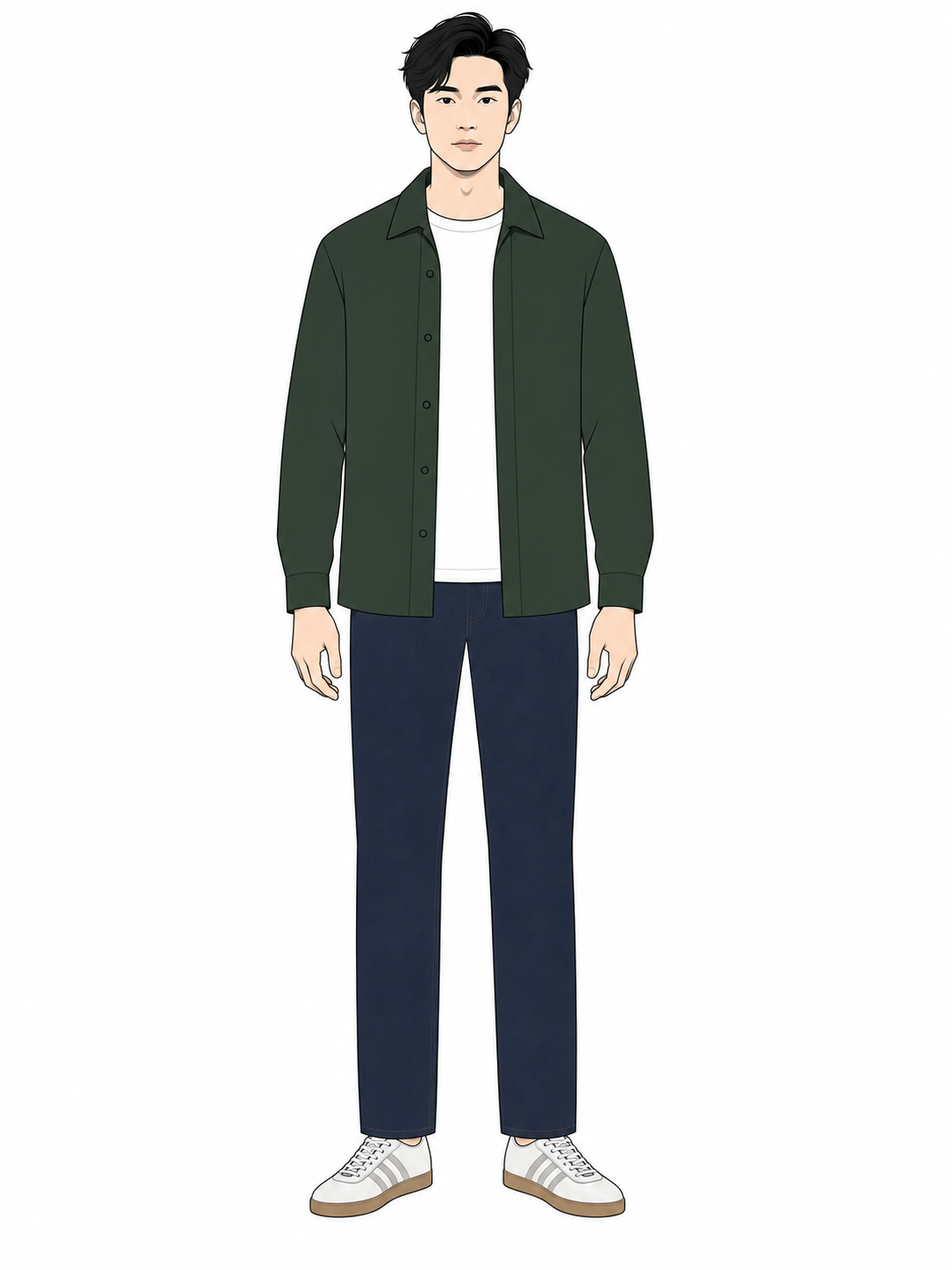
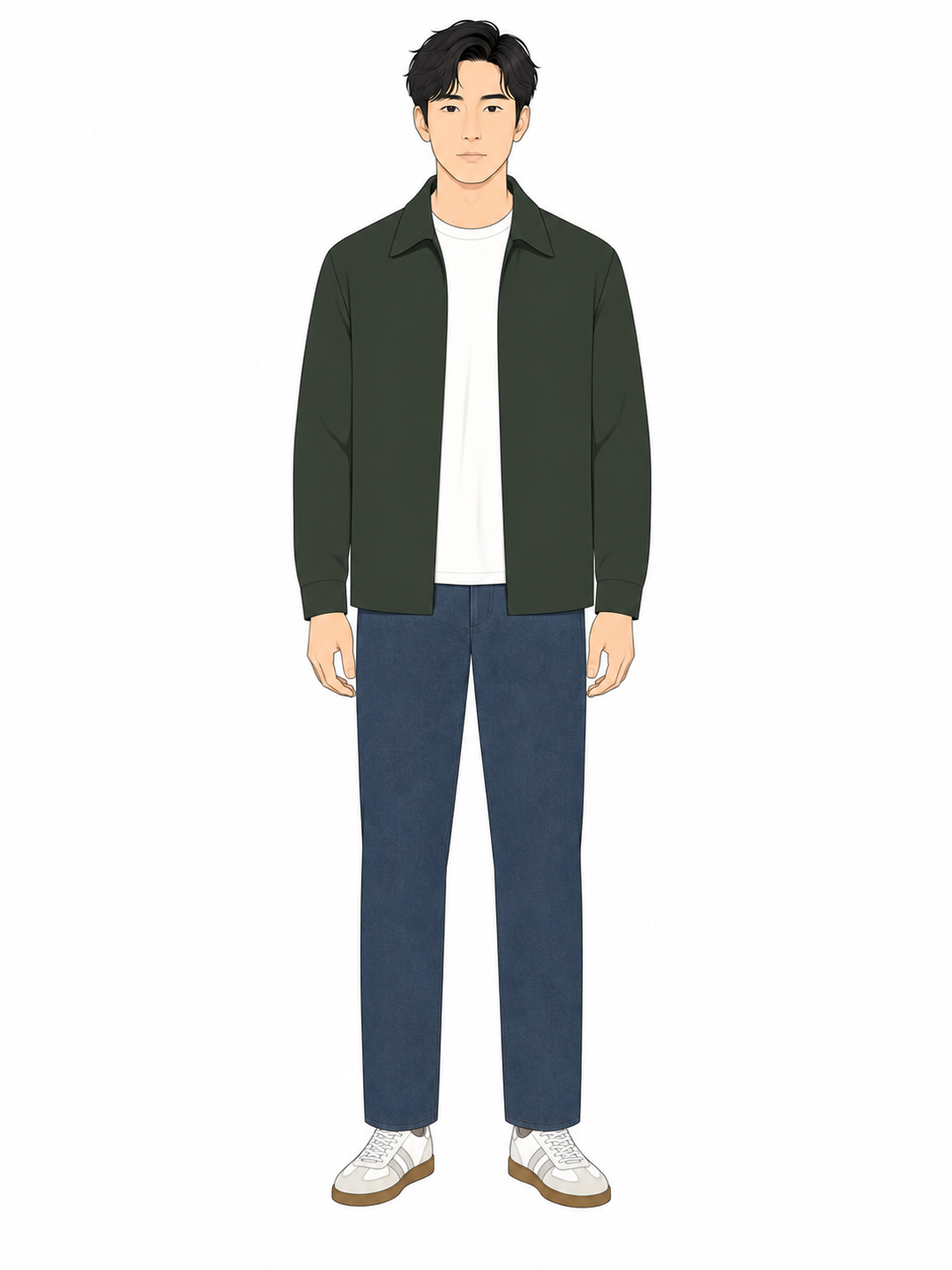
Regenerate five Style illustrations with corrected skin tone and colours
Replaces school-day, parent-evening, weekend, evening-out and hair
with new renders matching the current data: navy in place of
charcoal, camel for Parent evening's coat, light-to-medium skin
instead of the unspecified default, and realistic leg length instead
of fashion-croquis elongation.

Colour, carefully and Blazer and sneakers are not among the new
renders — none of the generated images showed the emerald knit or the
tie either look depends on, so both go back to the drawn placeholder
rather than ship a wrong match.

diff --git a/style/index.html b/style/index.html
@@ -312,7 +312,7 @@
 const S = {"philipp": {"direction": {"register": "Modern preppy, elevated — mature, not collegiate", "thesis": "The wardrobe he was already buying toward (Ralph Lauren, Suitsupply, Charles Tyrwhitt) stops being an exception and becomes the actual plan: tailored coats and knitwear over a collared shirt, chinos with a clean line, camel and khaki back in alongside the cool core. Preppy's usual signals — bright polos, popped collars, varsity branding — are exactly the collegiate register this avoids; the 2026 version of this look is described everywhere as sophisticated and mature rather than campus, and that is the half being kept.", "builtFrom": "Three facts about him, not a look: colouring that is Dark Winter and high-contrast, a 25 cm waist-to-hip drop, and a face that reads a decade younger than the passport. Those decide the trouser cut and how far the styling may mature regardless of register; the palette itself is cool by test, with camel and khaki confirmed back in on his own report on 2026-09-06.", "onTheOriginalFraming": "Written first in Korean-actor vocabulary, then generalised — the palette, cut and hair depend on his own measurements and colouring, not the label. The register itself changed again on 2026-09-06, quiet minimalism to modern preppy; the old references matched the old register, not this one.", "ageRead": "Reads early-to-mid 30s in photographs, not 43: full hairline, even skin tone, no deep static lines. The clothes are currently the oldest thing in the picture. That widens the range rather than narrowing it — the limiter is context (school, parent evenings, Germany), not the birth year, and over-mature styling would hand back years the face has not lost.", "notThis": [{"register": "Costume", "why": "Sheer fabric, embellishment, stage pieces — the idol register."}, {"register": "Collegiate preppy", "why": "Bright polos, popped collars, varsity, baseball caps — the campus version this register avoids."}], "referencesNote": "Byeon Woo Seok is sourced for the garment specifics; Beckham and Reynolds for silhouette and attitude only. Colour is already settled from his own skin and the metal test, not from a reference photo.", "references": [{"name": "Byeon Woo Seok", "why": "Actor, not idol; Prada ambassador; documented in cable-knit-over-collared-shirt layering — the core preppy combination, executed adult rather than campus. Age and build read close to his own."}, {"name": "David Beckham", "why": "Named directly in 2026 coverage of the trend: 'blending traditional tailoring with casual, sporty elements'. Mature, not collegiate, and the sportswear-into-tailoring move matches a man who trains regularly."}, {"name": "Ryan Reynolds", "why": "Named in the same coverage: 'clean, polished ensembles with a touch of whimsy'. The whimsy is the one thing to leave behind — the register wanted here is quieter than his press-tour persona — but the clean, tailored-casual base is exactly it."}], "readOfCurrentPhotos": "Four photographs, four sets of functional clothing: sport tee, polo, sport tee, printed sweatshirt. Not a taste problem — a control problem. Nothing in the set is a chosen silhouette. What already works: the gum-sole Sambas, and navy, which appears in three of four and flatters in all three. What works against him: the printed sweatshirt (busy, boxy, adds volume exactly where the training is removing it) and visible athletic branding outside the gym."}, "hair": {"priority": "The single biggest lever — roughly 60% of the effect is decided before any garment is chosen. Hair either rounds the face or lengthens it, and nothing worn below the collar can undo that.", "caption": "Taper cut — textured length on top, tapered sides (not shaved), matte not glossy. Near-black stays.", "imageStyle": {"prefix": "Close-up portrait illustration in a graphic novel style — flat matte ink like a European or American adult graphic novel, not anime or webtoon. Bold clean black ink outlines of even weight, no cross-hatching, no soft cel-shading, no gradients, no glossy highlights on the hair or skin. Head and shoulders only, three-quarter angle. Plain white background, no scenery, no props. No text, no labels, no captions, no logos.", "figure": "Early-30s East Asian man, light-to-medium skin tone — not pale, not fair-skinned. Mature and quiet, calm expression, no smile. Near-black hair in a taper cut: textured length and natural volume on top, falling softly to one side with lift at the crown, sides tapered short and blended into the top — never shaved or clipped to skin — matte and textured throughout, never glossy or wet-look. Wearing a plain navy crew-neck knit, no visible branding.", "suffix": "Portrait orientation, roughly 3:4, head and shoulders filling most of the frame with a small margin."}, "current": "Already close to the target most days, per his own photos — taper sides, natural volume on top, a soft side part or a looser textured sweep depending on the day. The gap only shows right after a cut that goes too short and too flat: no taper, no crown lift, which rounds the face and takes height away until it grows back out.", "cut": "Taper, not two-block/undercut. A two-block's sharp contrast between shaved sides and long top needs a trim every 2–3 weeks to hold its line — Asian hair regrows fast enough that skin-short sides read 'grown out' within two weeks. A taper has no hard line to lose, so it holds its shape 6–8 weeks between cuts and is closer to what he already wears day to day. Ask the barber for: taper on the sides, not a skin-short or clipper-guard-zero undercut, with 4–6 cm of textured length on top.", "shape": "Side sweep with lift at the crown — the classic preppy part, and it does more for his face shape than the alternative. Not a middle part: that reads closer to K-drama/idol styling than to this register, and without a real perm it tends to sit flat over a normal hairline rather than lengthening it the way a side sweep does.", "color": "Leave it. Near-black is a Dark Winter's own colour and the high contrast against the skin is the asset. If it is ever touched, a cool dark brown — ash or espresso, never caramel or warm brown.", "product": "Matte clay, not gel — a pea-sized amount worked through towel-dried hair with fingers, lifting from underneath at the crown. Under a minute; the taper does the work, the product just holds it rather than restyling it daily.", "why": "Vertical lift lengthens the face and gives the jaw its line back; a taper keeps that lift without a two-block's upkeep cost, which is more than wanted for a routine redone every morning and a cut redone every few weeks. The colour advice here used to say the opposite — soften the black to a warm brown — and the undertone test overturned it. That recommendation was warm-season reasoning applied to cool skin, and it was the one thing in this file genuinely riding on the answer. The cut is unaffected: it comes from face shape and upkeep, not colouring."}, "palette": {"type": "Dark Winter — deep, high-contrast, cool", "confidence": "Settled for metal, not for every fabric. Depth and contrast were never in doubt. The gold-versus-silver test (2026-09-05) is the strongest-supported claim in here for metal specifically — reflective gold at the jaw is a definite no, silver reads clean — and that rule is not in question. What was overreached was extending it to every warm-toned fabric: on 2026-09-06 he reported his own camel coat and khaki both suit him, which a metal test cannot actually rule out. A polished gold ring returns raw, saturated warmth straight onto the skin; a matte wool coat is muted and sits further from the face, and depth/muting can outweigh hue in a way a mirror shows and a metal swatch cannot. So: metal is a closed question, cool only. Fabric neutrals are open beyond the deep core — camel and khaki are back in, on his word, and nothing else warm has been tested. Charcoal is a different kind of open question: it's cool, so the undertone test never argued against it, but he owns exactly one charcoal item and isn't sure it works. Navy carries the 'default cool neutral' job instead, until charcoal gets the same kind of real-world confirmation camel and khaki got — see `unconfirmed`.", "established": "Near-black hair, dark brown eyes, light-to-medium skin, high hair-to-skin contrast. Deep colours hold across every lighting seen so far — black and navy both sit at the face without draining it.", "resolved": "Cool for metal: silver at the face reads clean, gold pulls yellow into the skin. Dark Winter depth and contrast stand regardless. Fabric is less absolute than metal — see `warmNeutrals` below for the two colours his own mirror has already settled.", "rule": "Deep tones throughout, and let the contrast stand. Black is a real neutral here, mid tones are not. Navy and true white are the cool default; camel and khaki are allowed too, on his own report — see `warmNeutrals`. Charcoal stays unconfirmed — see `unconfirmed`.", "metal": "Silver, steel, white gold, gunmetal — not gold. Watch, belt buckle, glasses frames, any ring. Metal only; doesn't extend to camel or khaki fabric.", "core": [{"name": "Black", "hex": "#16181C"}, {"name": "Navy", "hex": "#1F2A44"}, {"name": "True white", "hex": "#FFFFFF"}, {"name": "Forest", "hex": "#2E4535"}, {"name": "Burgundy", "hex": "#6B2233"}], "accent": {"note": "Where colour is allowed in an otherwise dark wardrobe.", "colors": [{"name": "Emerald", "hex": "#0F5C4A"}, {"name": "Sapphire", "hex": "#1B3F7A"}, {"name": "Deep berry", "hex": "#7A1140"}, {"name": "Icy blue", "hex": "#BFD4E8"}]}, "warmNeutrals": {"note": "Confirmed on his own word, 2026-09-06 — not a metal-test result.", "colors": [{"name": "Camel", "hex": "#A8825A", "why": "His own coat."}, {"name": "Khaki", "hex": "#C2B49A", "why": "Confirmed same day."}]}, "unconfirmed": {"note": "Cool-toned, so never ruled out on undertone grounds — just never actually worn enough to say it works. Navy took over as the default cool neutral instead of waiting on it.", "colors": [{"name": "Charcoal", "hex": "#3A3F47", "why": "One charcoal suit, and he's not sure it suits him — 2026-09-08. The same unconfirmed status khaki had before 2026-09-06; it may well come back in, on the same terms — his own report, not a swatch test."}]}, "ruledOut": {"note": "Untested for fabric, not wrong on anyone — just wrong next to cool skin.", "colors": [{"name": "Cream", "hex": "#EFE7D8", "why": "True white does this cool."}, {"name": "Stone", "hex": "#C7BFAE", "why": "Untested, unlike khaki."}, {"name": "Chocolate", "hex": "#4A3728", "why": "Warm brown at the face."}, {"name": "Rust", "hex": "#9C4A2A", "why": "Autumn's signature."}, {"name": "Deep olive", "hex": "#4A503A", "why": "Forest does this cool."}]}, "avoid": [{"name": "Fuchsia", "hex": "#E4409B", "why": "Too light and too bright against this depth — this was never an undertone question"}, {"name": "Apple green", "hex": "#8DC63F", "why": "Same reason: brightness. Cool it further and it is still wrong."}, {"name": "Lemon yellow", "hex": "#F2E85C", "why": "Light and bright — disappears next to near-black hair"}, {"name": "Ice pink", "hex": "#F5D3DE", "why": "Pale and washed — the opposite of a Dark palette"}, {"name": "Mid grey", "hex": "#9AA0A8", "why": "Not wrong, just inert — mid tones flatten a high-contrast face. Go darker."}]}, "looks": {"note": "Added 2026-09-05 because the page could describe a wardrobe but not show one. Every colour here comes from `palette.core` or `palette.accent` — these are assemblies, not new decisions, and if the palette changes these have to change with it. Five is deliberate: enough to cover the week he actually has, few enough that each one is a real outfit rather than a combination generator.", "imageStyle": {"adaptedFrom": "Originally the Teaching Hub house style verbatim — 'black and white graphic novel illustration, bold clean ink lines, no grey gradients'. Moved further on 2026-09-06: 'graphic novel' as a phrase kept pulling image generators toward glossy webtoon/manhwa romance-comic rendering regardless of the negative instructions stacked against it — confirmed when a generated School day image came back with soft gradient shading and an invented chest pocket despite both being explicitly excluded. The prompt now anchors on 'fashion technical flat / croquis', a real, well-represented illustration genre that is inherently flat and unornamented, rather than fighting a genre (graphic novel) whose dominant training association is the opposite of what this page needs.", "deviation": "Colour is still the one deliberate addition on top of the reference genre: a fashion croquis is normally colourless, but on a wardrobe page the colour IS the content — an emerald knit under a navy overshirt is the whole point — so garments are filled flat in the palette hexes instead.", "correction": {"date": "2026-09-06", "problem": "The first two renders (school-day, parent-evening) came back reading as modern preppy / dark academia — glossy K-webtoon shading and doe-eyed rendering rather than the graphic-novel ink asked for, a flapped topstitched chest pocket, a button-down collar, and trousers with a visible break at the shoe. None of that was written into the prompt; the generator defaulted to the dominant house style for 'handsome young Asian man' illustrations, which is exactly that look. The palette and garments were correct — the rendering and a few unstated details were not.", "fix": "prefix and figure below now say explicitly what they used to leave to chance: matte flat ink, no glossy or anime/webtoon shading, no doe-eyed romance-comic rendering, matte textured hair rather than a glossy side part, no decorative top-stitching or flapped pockets, no crease-break at the shoe. The parent-evening shirt keeps its collar — a plain spread collar is exactly right under an open coat — but loses the button-down oxford collar (the version with buttons at the points), which is the specific detail that read Ivy. This is not a new direction — it is the one already written in `direction` and `hair`, enforced in the prompt instead of assumed.", "existingImages": "school-day.png and parent-evening.png predate this fix and were not regenerated — that is a real cost, not a rounding error, and worth redoing only if the drift bothers him enough to spend the effort again."}, "prefix": "A fashion technical flat sketch — a designer's croquis, the plain reference drawing used in clothing design to show a garment on a figure with no artistic rendering. Flat matte black ink outlines of even weight on plain solid colour fills, exactly like a Uniqlo or Muji style guide diagram, not a character illustration, not a graphic novel panel, not anime or webtoon art. No cross-hatching, no soft cel-shading, no grey gradients, no glossy highlights anywhere, on hair or skin or fabric. No fabric texture, no wrinkles, no rendering of any kind — every garment is a single flat shape. Every garment is plain and unornamented: no pockets, no flaps, no stitching detail, no seams drawn in, no visible branding. Plain white background, no scenery, no props, no shadow on the ground. No text, no labels, no captions, no logos.", "figure": "The same man in all five images so they read as one series: early-30s East Asian man, slim athletic build, light-to-medium skin tone — not pale, not fair-skinned. Mature and quiet rather than boyish or doe-eyed, calm neutral expression with no smile. Near-black hair with length and volume on top and tapered sides, matte and textured with natural separation — not glossy, not a slicked or glassy side part. Standing straight and facing the viewer, arms relaxed at his sides, full body visible from head to shoes, in realistic body proportions — not the elongated 9-head fashion-croquis convention of extra-long legs; keep the leg length true to life relative to the torso. Trousers fall in one continuous straight line with no crease and no break at the shoe.", "suffix": "Portrait orientation, roughly 3:4. The whole figure must fit inside the frame with clear margin above the head and below the shoes.", "howToUse": "Concatenate prefix + figure + the look's own `imagePrompt` + suffix, generate, and drop the file into hub/style/img/ named after the occasion slug — school-day.png, parent-evening.png, weekend.png, evening-out.png, colour-carefully.png. The build picks it up on the next run and replaces the drawn placeholder; .png, .jpg and .webp are all accepted.", "background": "A transparent background is better than white if the generator can do it, because the page has a dark theme as well as a light one. If it cannot, white is fine — the build puts the image on its own white plate so it looks deliberate in both themes rather than like a bug."}, "items": [{"occasion": "School day", "when": "The default, and the one worth getting right — it is most of the week", "note": "Confirmed 2026-09-06: a real collar for work, not a crew neck — the knit is what he wears off-duty with his wife, not what belongs at school. On cold days the merino crew goes back in, but layered over the shirt, under the overshirt — the collar still shows, so the rule holds either way. Tonal from collar to shoe, one shoulder seam on the outside. Nothing here needs ironing on a Tuesday morning.", "reference": {"label": "Real chelsea-boot outfits, this register", "url": "https://lookastic.com/men/black-chelsea-boots/looks"}, "imagePrompt": "He wears a plain open navy overshirt (#1F2A44) with a defined shoulder seam and no chest pocket, over a white cotton shirt (#FFFFFF) with a plain point collar visible at the neck, buttoned without a tie. Straight-leg navy trousers (#1F2A44) that fall clear of the hip in one continuous line with no crease and no break at the ankle, and black leather chelsea boots (#16181C). The overshirt hangs open and straight, forming one unbroken vertical line down each side.", "layers": [{"part": "Outerwear", "item": "Navy overshirt", "hex": "#1F2A44"}, {"part": "Top", "item": "White collared shirt", "hex": "#FFFFFF"}, {"part": "Bottom", "item": "Navy straight trousers", "hex": "#1F2A44"}, {"part": "Shoes", "item": "Black chelsea", "hex": "#16181C"}, {"part": "Cold add-on", "item": "Navy merino crew, between shirt and overshirt", "hex": "#1F2A44"}]}, {"occasion": "Parent evening", "when": "When the room has other adults in it and the clothes are read once, quickly", "note": "Confirmed 2026-09-06: no tie here didn't sit right with him — a parent evening reads as a room to be dressed for, not just a coat to be seen in. The tie is what changes; the coat still does most of the work. Coat corrected to camel 2026-09-08 — the one he already owns and confirmed suits him. Charcoal was never actually tested; camel is.", "reference": {"label": "Ryan Reynolds, this exact combination", "url": "https://lookastic.com/men/looks/navy-overcoat-white-dress-shirt-black-dress-pants/18343"}, "imagePrompt": "He wears an open single-breasted camel wool coat (#A8825A) that reaches just below the knee, over a plain pure white shirt (#FFFFFF) with a spread collar — a plain collar, not a button-down oxford collar — and a tie in a palette colour (navy or burgundy, plain or a narrow stripe, no bright pattern), straight-leg navy blue trousers (#1F2A44), and black leather derby shoes (#16181C). The coat is single-breasted with a narrow lapel and hangs open in one long straight vertical line.", "layers": [{"part": "Outerwear", "item": "Camel knee-length coat", "hex": "#A8825A"}, {"part": "Top", "item": "True white shirt", "hex": "#FFFFFF"}, {"part": "Neckwear", "item": "Tie — navy or burgundy, plain or narrow stripe", "hex": "#1F2A44"}, {"part": "Bottom", "item": "Navy straight trousers", "hex": "#1F2A44"}, {"part": "Shoes", "item": "Black derby", "hex": "#16181C"}]}, {"occasion": "Weekend", "when": "Errands, coffee, the park", "note": "The Sambas stay. They are the one thing in the current photographs that already works, and shoes sit far enough from the face that the palette rule is not doing much down there.", "reference": {"label": "Real Samba outfit ideas", "url": "https://meninspire.com/samba-outfit-men/"}, "imagePrompt": "He wears an open dark forest green overshirt (#2E4535) over a plain pure white t-shirt (#FFFFFF), straight-leg dark indigo denim jeans (#23314A) in a deep even wash with no fading and no distressing, and low-profile white leather sneakers with a gum sole (#E9E7E2) and three plain stripes. Relaxed but not loose; the jeans are straight through the leg, never skinny and never baggy.", "layers": [{"part": "Outerwear", "item": "Forest overshirt", "hex": "#2E4535"}, {"part": "Top", "item": "True white tee", "hex": "#FFFFFF"}, {"part": "Bottom", "item": "Dark straight denim, no fading", "hex": "#23314A"}, {"part": "Shoes", "item": "Samba", "hex": "#E9E7E2"}]}, {"occasion": "Evening out", "when": "Dinner, a bar, anywhere with low light", "note": "Black on black on black, broken only by the coat being a shade lighter. This is the look the high contrast in his colouring was made for.", "reference": {"label": "Real mock-neck outfits, this register", "url": "https://lookastic.com/men/black-mock-neck-sweater/looks"}, "imagePrompt": "He wears an open single-breasted navy wool coat (#1F2A44) reaching just below the knee, over a black fine-gauge mock neck knit (#16181C) with a visibly ribbed stand collar and ribbed cuffs, straight-leg black trousers (#16181C), and black leather chelsea boots (#16181C). Almost entirely black from the neck down, with the coat one clear shade lighter so the silhouette still separates from the layers beneath it.", "layers": [{"part": "Outerwear", "item": "Navy coat", "hex": "#1F2A44"}, {"part": "Top", "item": "Black mock neck", "hex": "#16181C"}, {"part": "Bottom", "item": "Black straight trousers", "hex": "#16181C"}, {"part": "Shoes", "item": "Black chelsea", "hex": "#16181C"}]}, {"occasion": "Colour, carefully", "when": "When the whole week has been navy and black", "note": "One accent, at the top, with everything under it quiet. Emerald is a Dark Winter colour rather than a bright one, so it reads as depth and not as a statement.", "reference": {"label": "Real dark-green sweater outfits", "url": "https://lookastic.com/men/dark-green-sweater/looks"}, "imagePrompt": "He wears an open navy blue overshirt (#1F2A44) over a deep emerald green fine-gauge merino crew neck knit (#0F5C4A) with a visibly ribbed neckline and ribbed cuffs, straight-leg navy trousers (#1F2A44), and black leather chelsea boots (#16181C). The emerald is deep and saturated rather than bright or minty, and it is the only colour in the image that draws the eye.", "layers": [{"part": "Outerwear", "item": "Navy overshirt", "hex": "#1F2A44"}, {"part": "Top", "item": "Emerald merino crew", "hex": "#0F5C4A"}, {"part": "Bottom", "item": "Navy straight trousers", "hex": "#1F2A44"}, {"part": "Shoes", "item": "Black chelsea", "hex": "#16181C"}]}, {"occasion": "Blazer and sneakers", "when": "Smart, but not fully formal — a combination he already wears", "note": "Confirmed 2026-09-06 as something he actually wears, and it turns out to be close to the purest expression of the register: 2026 coverage of modern preppy names this exact move by name — a tailored jacket with a sneaker in place of an Oxford shoe. The tie and jacket say effort; the sneaker says he chose it rather than the dress code choosing it for him.", "reference": {"label": "Real blazer + white-sneaker outfits", "url": "https://lookastic.com/men/white-sneakers/how-to-wear-with/khaki-chinos"}, "imagePrompt": "He wears a navy sport coat (#1F2A44) with a defined shoulder, open, over a white dress shirt (#FFFFFF) with a plain collar and a tie in a palette colour — navy or burgundy, plain or a narrow stripe, no bright pattern. Straight-leg khaki chino trousers (#C2B49A). Clean white leather sneakers in a low-top terrace-shoe style, not a bulky performance trainer. The jacket and tie read dressed; the sneaker is the deliberate, chosen contrast.", "layers": [{"part": "Outerwear", "item": "Navy sport coat", "hex": "#1F2A44"}, {"part": "Top", "item": "White dress shirt", "hex": "#FFFFFF"}, {"part": "Neckwear", "item": "Tie — navy or burgundy, plain or narrow stripe", "hex": "#1F2A44"}, {"part": "Bottom", "item": "Khaki chino", "hex": "#C2B49A"}, {"part": "Shoes", "item": "White Adidas Barreda", "hex": "#E9E7E2"}]}]}, "silhouette": {"rules": [{"rule": "Straight leg, mid-to-high rise", "why": "Hip 105 cm over waist 80 cm is a 25 cm drop. A slim cut pulls at the seat and advertises exactly the ratio the training is working on; straight falls clear of the hip and lengthens the leg."}, {"rule": "Defined shoulder line", "why": "The taper is being built in the gym. Outerwear with a real shoulder seam — overshirt, coat, unstructured blazer — anticipates it instead of waiting for it."}, {"rule": "Tonal column, top to bottom", "why": "One depth of colour head to foot reads as height. Splitting light-over-dark cuts the body in half at the waist, which is the one place not to draw a line."}, {"rule": "Outerwear to the knee, single-breasted", "why": "A long unbroken vertical is the most reliable lengthening device there is. Double-breasted adds width across the chest and works against it."}, {"rule": "No visible athletic branding outside the gym — heritage fashion branding is a different thing", "why": "Sport logos say 'on the way to train'; the clothes should not be doing that when the destination is a classroom. That was never a rule against branding as such — a Ralph Lauren pony is a heritage signifier central to this exact register, not a sport logo, and modern preppy is built partly around wearing it visibly. Adidas terrace sneakers (Samba, Barreda) sit in between and were already allowed on their own terms: the branding is subtle by design, not because branding got a pass."}, {"rule": "Relaxed, never skinny — and never baggy", "why": "Easy through the leg, clean at the line. Tight reads dated and fights the hip; oversized reads borrowed and loses the shoulder the whole silhouette is built on."}]}, "buyNext": [{"item": "Overshirt / shirt jacket", "colors": "Navy or forest — navy replaces charcoal, unconfirmed for him; forest replaces the deep olive this used to say", "why": "Replaces the printed sweatshirt outright. The slight shoulder structure does work a sweatshirt physically cannot, and it goes over anything already in the wardrobe."}, {"item": "White collared shirt (two or three)", "colors": "White", "why": "Confirmed 2026-09-06 as the actual work base — a crew neck doesn't belong at school for him, whatever it does off-duty. Charles Tyrwhitt is already on the brand list at the right collar size."}], "seasonalWardrobe": {"note": "Rewritten 2026-09-05 into the target register, then corrected the same day when the undertone test came back cool — cream, stone, camel, chocolate, tortoise and dark brown all removed. Camel and khaki came back on 2026-09-06 on his own report; cream, stone, chocolate, tortoise and dark brown are still out, untested. The four-season structure, the straight-leg correction and the tonal-column rule are unchanged throughout.", "styleNote": "Natural fabrics — wool, cotton, leather. The rule that carries every season: one depth of colour throughout, a defined shoulder on whatever is outermost. Neutrals default cool — navy and true white — with camel and khaki confirmed as the two exceptions. Charcoal stays unconfirmed.", "seasons": [{"season": "Spring", "heading": "Light layers, one tone", "tops": "Fine merino or cotton knit in navy or true white, worn under rather than alone", "outerwear": "Overshirt or unlined coach jacket in forest or navy", "bottoms": "Straight chinos in khaki or navy", "shoes": "Sambas, or a black derby when the day needs it"}, {"season": "Summer", "heading": "Cut, not exposure", "tops": "Boxy-but-clean linen or linen-blend shirt in true white or sapphire, short sleeve with a proper shoulder seam", "bottoms": "Straight trousers in navy, or wide-leg shorts to just above the knee — not sport shorts", "accessories": "Sunglasses in black or dark grey with a grey lens. Tortoise is a warm frame and sits at the face, which is the one place the undertone actually matters.", "shoes": "Clean white leather sneaker or a black loafer"}, {"season": "Autumn", "heading": "Deep tones, before the coats come out", "tops": "Merino crew or mock neck in forest, burgundy or deep berry", "outerwear": "Overshirt layered under a camel or navy coat", "bottoms": "Straight trousers in navy, or dark denim with no fading", "shoes": "Black chelsea or derby"}, {"season": "Winter", "heading": "The strongest season for this palette", "tops": "Heavier knit in navy or emerald, mock or turtleneck", "outerwear": "Knee-length single-breasted wool coat in camel or navy", "bottoms": "Straight wool-blend trousers in navy or black", "shoes": "Lined black boot"}]}, "chinoPlan": {"goal": "End goal: capsule wardrobe largely in Ralph Lauren. This used to be framed as a collector's habit tolerated despite the styling, back when the register was quiet minimalism. Under modern preppy it is the opposite — Ralph Lauren is close to the definitive brand for this register, so wanting it and the styling actually agreeing is the correction, not a coincidence.", "midGoal": "Realised differently than planned: Dockers got skipped entirely, and Suitsupply is already the everyday tier, in khaki and navy. Ralph Lauren stays the premium end goal.", "fit": "Straight leg, mid-to-high rise. Ask for the straight or relaxed cut by fit, not by model name.", "revision": {"date": "2026-09-08", "change": "The phased 'cheap first, upgrade later' plan didn't happen — he skipped Dockers and bought Suitsupply straight away, in khaki and navy. Charcoal is dropped from every remaining phase: he owns exactly one charcoal item, isn't sure it suits him, and navy is what he actually reaches for. The 2026-09-05 fit and colour corrections (straight leg, khaki back in) still stand.", "why": "Two separate things converged. The Suitsupply jump is just what happened — the plan is worth updating to match rather than pretending the Dockers step is still 'next'. The charcoal drop is the same rule this file already used for camel and khaki, applied in the other direction: colour that isn't backed by real worn experience doesn't get to sit in the plan as a default, whichever way the theory points."}, "roadmap": [{"phase": "Owned", "brand": "Suitsupply", "model": "Wider chino block in store — Brescia is their slim one", "colors": "Khaki, Navy", "purpose": "Everyday and smart casual, both already in rotation", "status": "Done"}, {"phase": "Next — when ready for the premium tier", "brand": "Ralph Lauren", "model": "Stretch Chino, straight or relaxed", "colors": "Navy, possibly Forest — not charcoal, unconfirmed for him", "priceNew": "€120–150 (outlet/Vinted often €80–100)", "whereNew": "Ralph Lauren DE, Zalando, outlets (Ingolstadt, Roermond)", "secondHandSearch": "\"Polo Ralph Lauren chino straight 32/32\"", "purpose": "Prestige, parent evenings, events", "status": "Planned"}]}, "brands": [{"name": "Charles Tyrwhitt", "category": "Shirts", "note": "Stands — collar 38, extra slim fit already established"}, {"name": "Suitsupply", "category": "Suits, chinos", "note": "Stands for tailoring; take the wider chino block, not Brescia"}, {"name": "Uniqlo", "category": "Knitwear", "note": "Now the most important name on this list — the merino line is the tonal base layer"}, {"name": "Eterna", "category": "Silk ties"}, {"name": "Shoepassion", "category": "Men's shoes", "note": "Size 8 — the black derby or chelsea comes from here. Was dark brown until the undertone test."}, {"name": "Adidas", "category": "Sneakers, socks", "note": "Sambas stay. White Barreda added — same terrace-shoe family, dressier T-toe suede/leather build, Adidas's answer to the Nike Killshot. White is the core-safe colour; the branded sport tees stay in the gym."}, {"name": "Levi's", "category": "Jeans — Denim 511 Slim", "note": "511 is a slim cut; the straight-leg correction applies here too when it is replaced"}, {"name": "Banana Republic", "category": "Chino — 31/32 Mason Athletic Fit", "note": "Superseded by the fit revision"}, {"name": "Burberry", "category": null}, {"name": "Villeroy und Boch", "category": "Porcelain (not clothing)"}], "size": {"collar": "38 cm", "shoulder": "46 cm", "chest": "96 cm", "belly": "87 cm", "waist": "80 cm", "hip": "105 cm", "armLength": "83 cm", "sleeveLength": "61 cm", "shirtLength": "67 cm", "notes": ["Extra Slim Fit — Tyrwhitt 38 business shirt, casual size S", "31/32 Regular Fit — Boss Orange chino", "Shoes: 26 cm foot = EU 42.6–43.3 at Adidas, EU 43 at Nike", "Shoepassion size 8", "Waist 80 to hip 105 is a 25 cm drop — the single measurement that decides the trouser cut"]}}, "eunice": null};
 /* Filled by the build from whatever is in hub/style/img/. Empty until the
    first illustration is generated, which is the normal state, not an error. */
-const IMG = {"colour-carefully": "img/colour-carefully.png?v=ae8d964f", "evening-out": "img/evening-out.png?v=fa3e3c23", "hair": "img/hair.png?v=99506f05", "parent-evening": "img/parent-evening.png?v=3672c952", "school-day": "img/school-day.png?v=ee3148e9", "weekend": "img/weekend.png?v=9bb1c8f5"};
+const IMG = {"evening-out": "img/evening-out.png?v=37b940c9", "hair": "img/hair.png?v=bc570665", "parent-evening": "img/parent-evening.png?v=106c8679", "school-day": "img/school-day.png?v=a634dd2e", "weekend": "img/weekend.png?v=43c2ad95"};
 
 function esc(s){
   return String(s == null ? "" : s)

diff --git a/sw.js b/sw.js
@@ -1,7 +1,7 @@
 /* Pairwell service worker.
    Update rule: bump CACHE whenever files have changed. */
 
-const CACHE = "hub-v85";
+const CACHE = "hub-v86";
 
 const SHELL = [
   "./",
@@ -23,12 +23,11 @@ const SHELL = [
      but "first view" means online, and an outfit you cannot see in a shop is
      the one place this page is used. Empty until the first one is generated. */
   // <style-img>
-  "./style/img/colour-carefully.png?v=ae8d964f",
-  "./style/img/evening-out.png?v=fa3e3c23",
-  "./style/img/hair.png?v=99506f05",
-  "./style/img/parent-evening.png?v=3672c952",
-  "./style/img/school-day.png?v=ee3148e9",
-  "./style/img/weekend.png?v=9bb1c8f5",
+  "./style/img/evening-out.png?v=37b940c9",
+  "./style/img/hair.png?v=bc570665",
+  "./style/img/parent-evening.png?v=106c8679",
+  "./style/img/school-day.png?v=a634dd2e",
+  "./style/img/weekend.png?v=43c2ad95",
   // </style-img>
 ];
 
